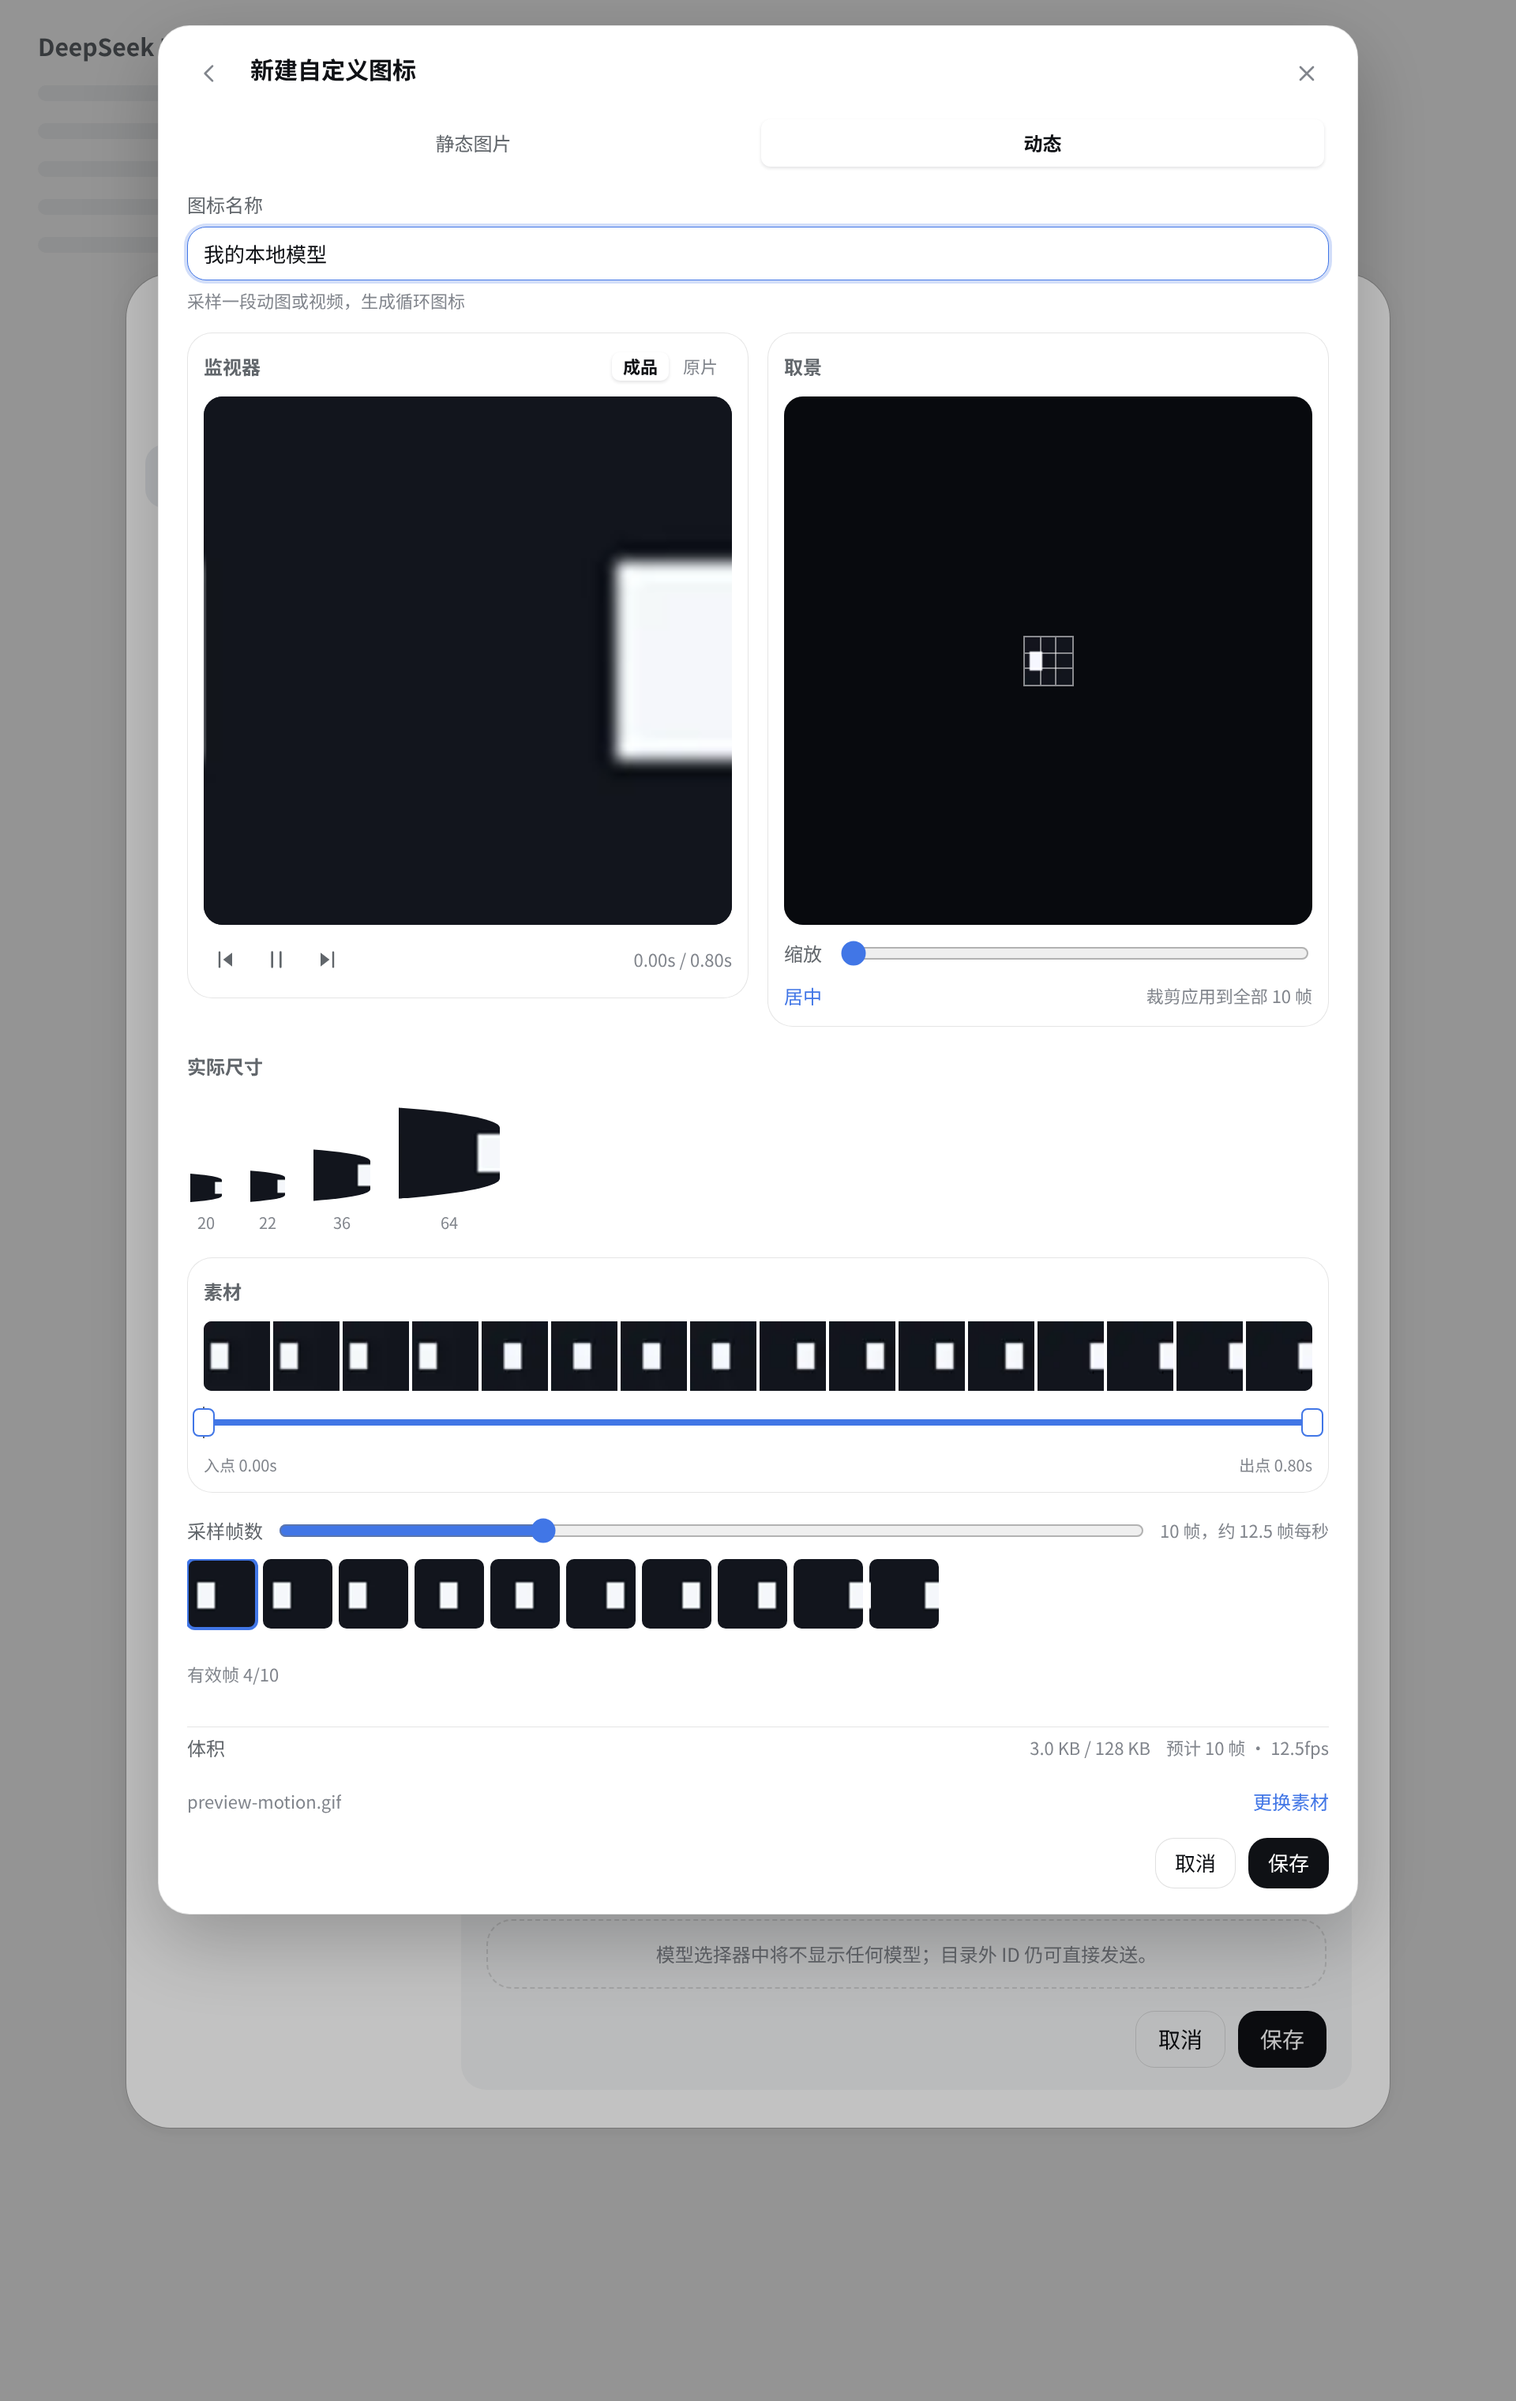
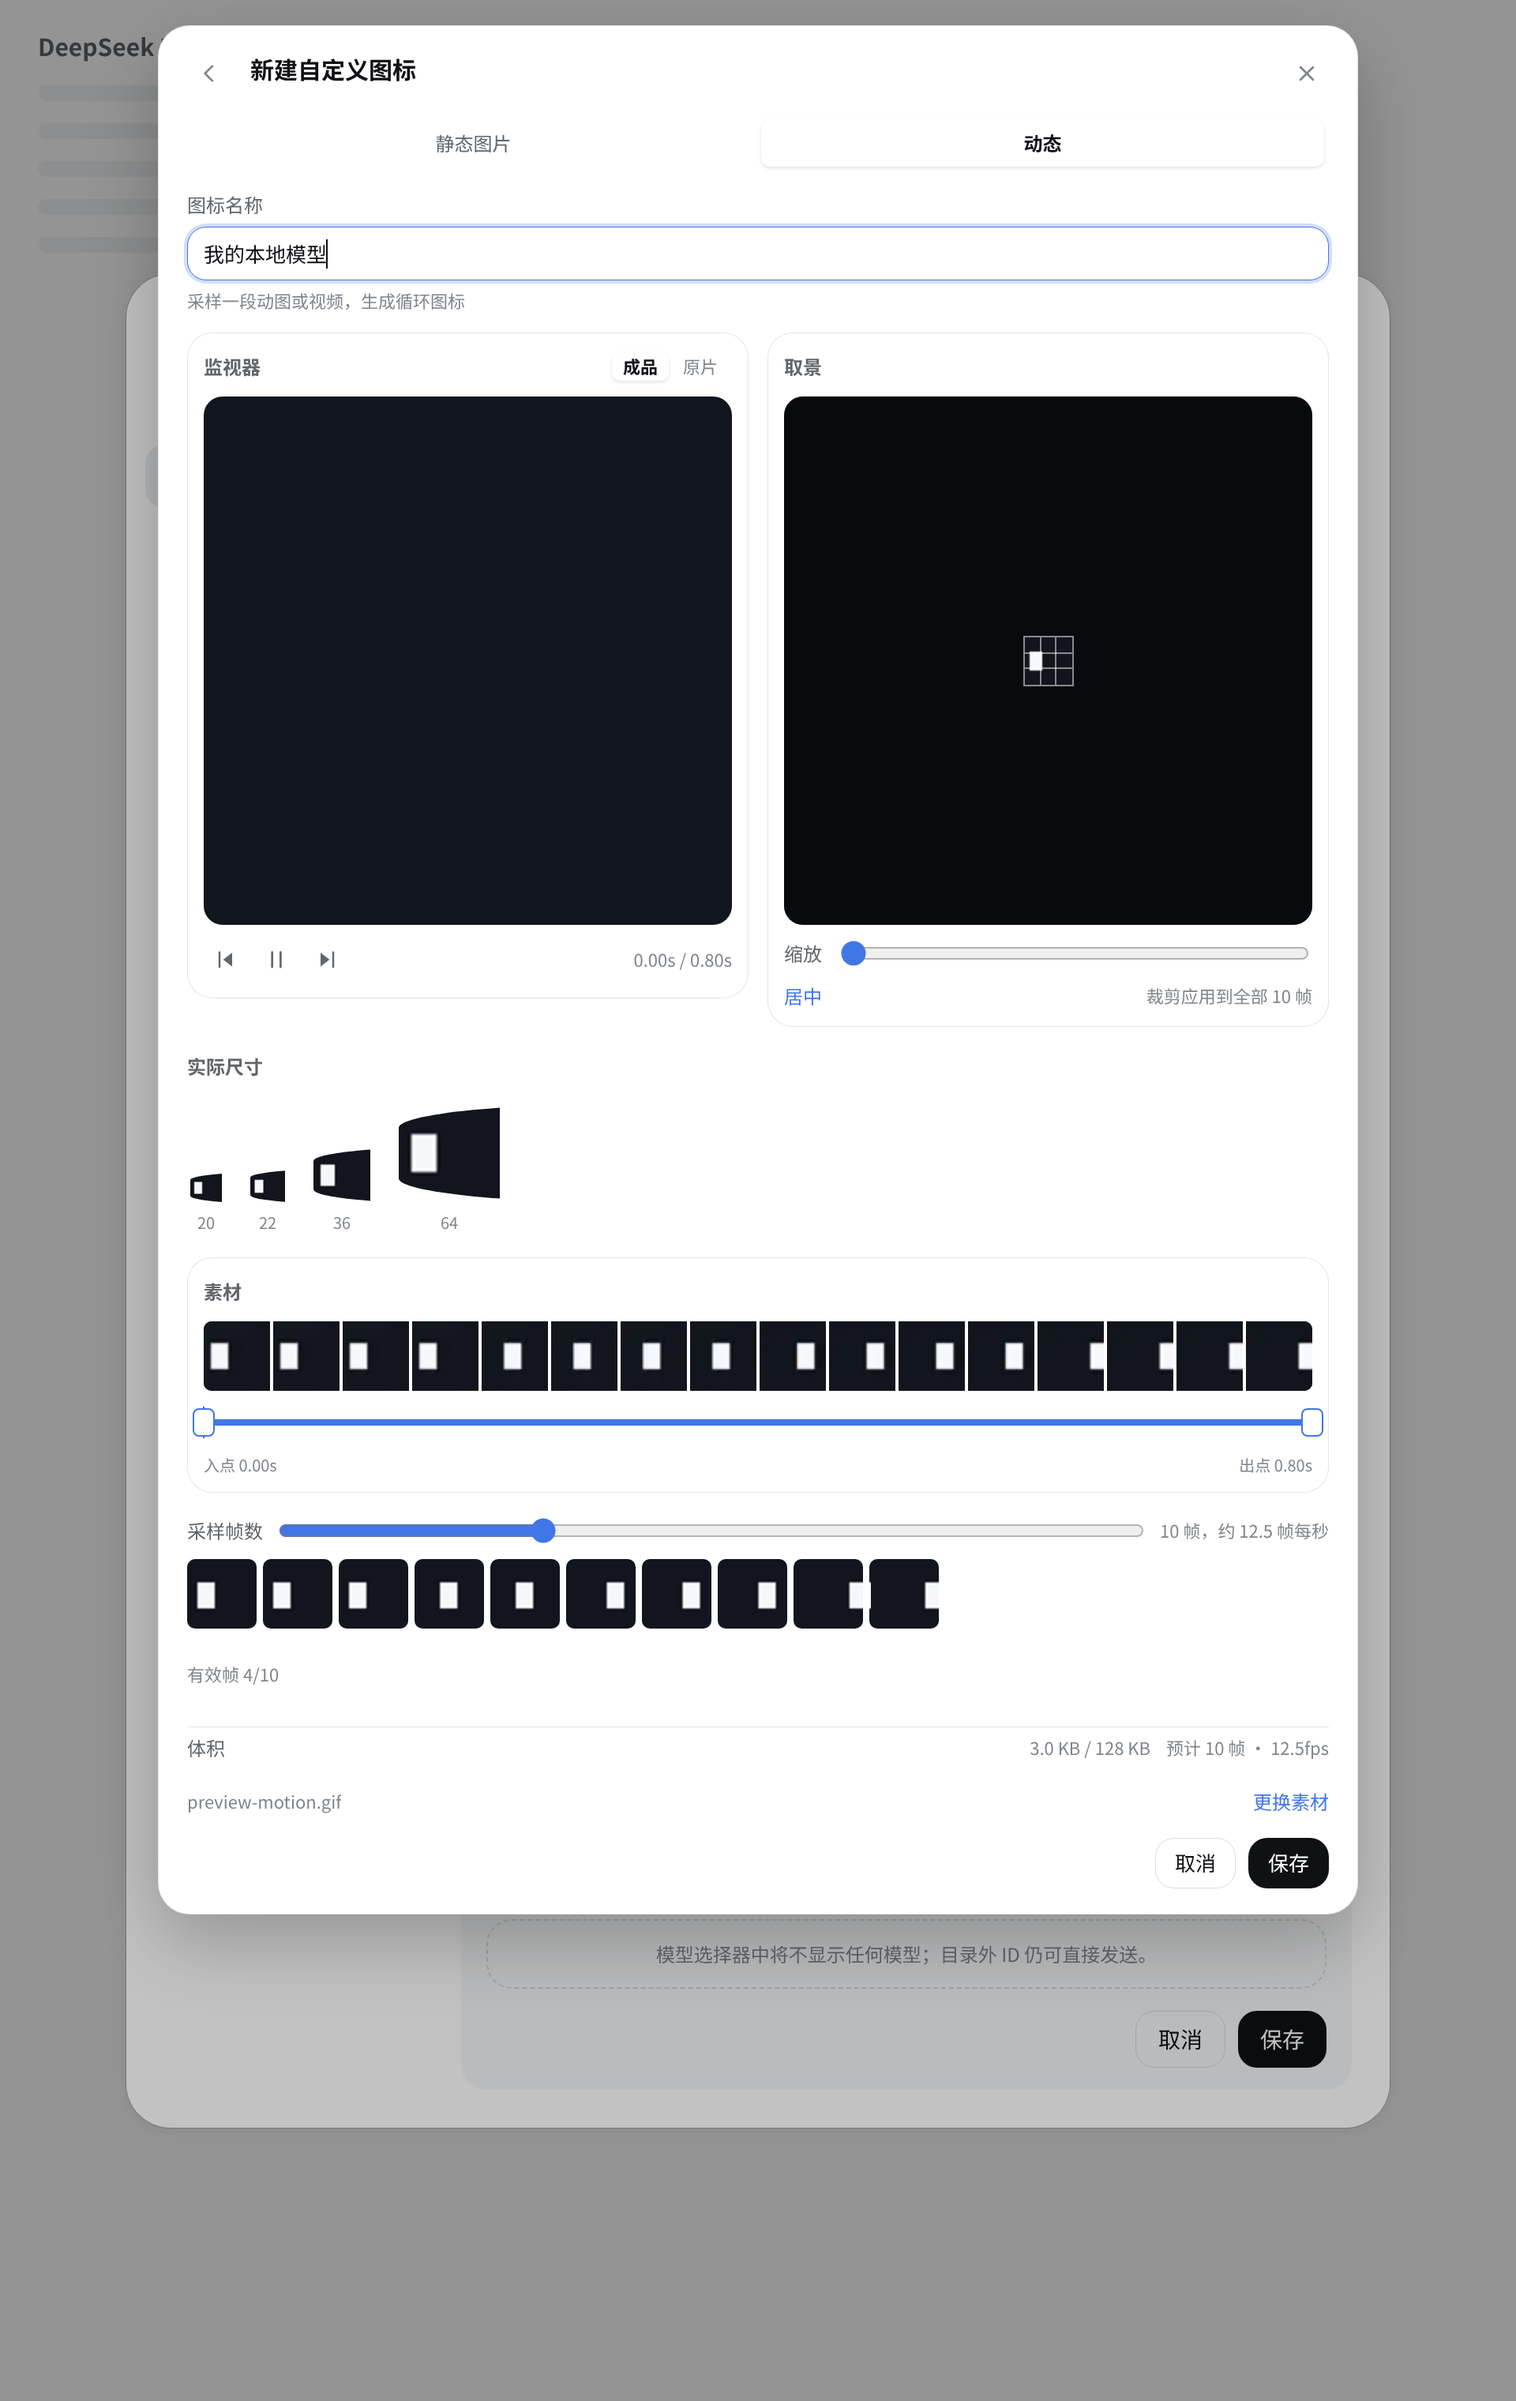
feat: complete the motion studio interactions
Fill the interaction details the plan defines but the first studio cut left out:
the selected range can now be dragged as a whole (the in/out pair translates
inside the source, clamped to its bounds), double-clicking a handle resets it to
the start/end, a running sample or slimming pass can be cancelled, and a refused
create now surfaces the store's specific message (document budget, icon limit)
instead of a generic save error. The motion preview is regenerated from the
updated stylesheet.

Verified: pnpm run verify — typecheck, lint, fmt:check, 152 tests, artwork and
build gates pass; `EDGE=$(command -v google-chrome) pnpm run verify:dom` passes
**140 assertions**; `pnpm run preview` and `pnpm run verify:live` pass.

Changed region(s): [[0.375, 0.2188, 0.5, 0.3438], [0.125, 0.4688, 0.3438, 0.5]]

diff --git a/src/motion-studio.ts b/src/motion-studio.ts
@@ -85,7 +85,7 @@ export interface DshmlMotionStudioProps {
 type DshmlStudioStatus = 'idle' | 'reading' | 'ready' | 'failed';
 
 /** Which range handle (or the playhead) is being dragged. */
-type DshmlDragTarget = 'in' | 'out' | 'playhead';
+type DshmlDragTarget = 'in' | 'out' | 'playhead' | 'range';
 
 /** Copy lookup with an English fallback, so a missing key never shows a raw key. */
 function dshmlCopy(key: string, fallback: string, vars?: Readonly<Record<string, string | number>>): string {
@@ -576,6 +576,7 @@ interface DshmlTimelineProps {
   trackRef: { current: HTMLDivElement | null };
   onDragStart: (target: DshmlDragTarget, event: ReactPointerEvent<HTMLElement>) => void;
   onHandleKey: (side: 'in' | 'out', key: string, shift: boolean) => void;
+  onHandleReset: (side: 'in' | 'out') => void;
   onTrackPointerDown: (event: ReactPointerEvent<HTMLElement>) => void;
 }
 
@@ -589,6 +590,7 @@ function DshmlRangeHandle(props: {
   edge: boolean;
   onDragStart: (target: DshmlDragTarget, event: ReactPointerEvent<HTMLElement>) => void;
   onKey: (side: 'in' | 'out', event: ReactKeyboardEvent<HTMLButtonElement>) => void;
+  onReset: (side: 'in' | 'out') => void;
 }): ReactElement {
   return h(
     'button',
@@ -609,6 +611,10 @@ function DshmlRangeHandle(props: {
       },
       onKeyDown: function onKeyDown(event: ReactKeyboardEvent<HTMLButtonElement>) {
         props.onKey(props.side, event);
+      },
+      onDoubleClick: function onDoubleClick(event: React.MouseEvent<HTMLButtonElement>) {
+        event.preventDefault();
+        props.onReset(props.side);
       },
     },
     props.edge ? h('span', { className: 'dshml-motion-handle-mark', 'aria-hidden': 'true' }) : null,
@@ -649,6 +655,11 @@ function DshmlMotionTimeline(props: DshmlTimelineProps): ReactElement {
           className: 'dshml-motion-range',
           'aria-hidden': 'true',
           style: { left: inPct + '%', width: Math.max(0, outPct - inPct) + '%' },
+          onPointerDown: function onRangePointerDown(event: ReactPointerEvent<HTMLSpanElement>) {
+            event.preventDefault();
+            event.stopPropagation();
+            props.onDragStart('range', event);
+          },
         }),
         h('span', {
           key: 'head',
@@ -671,6 +682,7 @@ function DshmlMotionTimeline(props: DshmlTimelineProps): ReactElement {
               event.preventDefault();
             }
           },
+          onReset: props.onHandleReset,
         }),
         h(DshmlRangeHandle, {
           key: 'out',
@@ -687,6 +699,7 @@ function DshmlMotionTimeline(props: DshmlTimelineProps): ReactElement {
               event.preventDefault();
             }
           },
+          onReset: props.onHandleReset,
         }),
       ],
     ),
@@ -714,6 +727,7 @@ interface DshmlSamplesProps {
   disabled: boolean;
   onFrames: (frames: number) => void;
   onSeek: (ms: number) => void;
+  onCancel: () => void;
 }
 
 /** Frame-count slider, the sampled strip and the effective rate. */
@@ -779,19 +793,31 @@ function DshmlMotionSamples(props: DshmlSamplesProps): ReactElement {
     ]),
     h('div', { key: 'strip', className: 'dshml-motion-strip', role: 'group' }, cells),
     props.sampling
-      ? h(
-          'p',
-          { key: 'progress', className: 'dshml-motion-progress', role: 'status' },
-          props.progress !== null
-            ? dshmlCopy('picker.motionSampling', 'Sampling frame {done}/{total}…', {
-                done: props.progress.done,
-                total: props.progress.total,
-              })
-            : dshmlCopy('picker.motionSampling', 'Sampling frame {done}/{total}…', {
-                done: 0,
-                total: props.frames,
-              }),
-        )
+      ? h('div', { key: 'progress', className: 'dshml-motion-progress-row', role: 'status' }, [
+          h(
+            'span',
+            { key: 'text', className: 'dshml-motion-progress' },
+            props.progress !== null
+              ? dshmlCopy('picker.motionSampling', 'Sampling frame {done}/{total}…', {
+                  done: props.progress.done,
+                  total: props.progress.total,
+                })
+              : dshmlCopy('picker.motionSampling', 'Sampling frame {done}/{total}…', {
+                  done: 0,
+                  total: props.frames,
+                }),
+          ),
+          h(
+            'button',
+            {
+              key: 'cancel',
+              type: 'button',
+              className: 'dshml-custom-link',
+              onClick: props.onCancel,
+            },
+            dshmlCopy('picker.cancel', 'Cancel'),
+          ),
+        ])
       : null,
     props.distinct !== null && props.encoded !== null && props.distinct < props.encoded.frames
       ? h(
@@ -815,6 +841,7 @@ interface DshmlBudgetProps {
   overBudget: boolean;
   onSlim: () => void;
   onUndo: () => void;
+  onCancel: () => void;
   disabled: boolean;
 }
 
@@ -896,6 +923,18 @@ function DshmlMotionBudget(props: DshmlBudgetProps): ReactElement {
             props.slimming
               ? dshmlCopy('picker.motionSlimming', 'Shrinking…')
               : dshmlCopy('picker.motionSlim', 'Shrink automatically'),
+          )
+        : null,
+      props.slimming
+        ? h(
+            'button',
+            {
+              key: 'cancel-slim',
+              type: 'button',
+              className: 'dshml-custom-link',
+              onClick: props.onCancel,
+            },
+            dshmlCopy('picker.cancel', 'Cancel'),
           )
         : null,
     ]),
@@ -1022,6 +1061,7 @@ export function DshmlMotionStudio(props: DshmlMotionStudioProps): ReactElement {
   const playheadRef = React.useRef(0);
   const acceptRef = React.useRef<(file: File | null) => void>(function noop() {});
   const onReadyRef = React.useRef(props.onReady);
+  const dragStartRef = React.useRef<{ time: number; range: DshmlMotionRange } | null>(null);
   const cropAreaRef = React.useRef<DshmlCropPixels | null>(null);
   const liveTimer = React.useRef<ReturnType<typeof setTimeout> | null>(null);
   playheadRef.current = playhead;
@@ -1410,6 +1450,16 @@ export function DshmlMotionStudio(props: DshmlMotionStudioProps): ReactElement {
           setPlayhead(target);
           return;
         }
+        if (drag === 'range') {
+          const start = dragStartRef.current;
+          if (start === null) return;
+          const span = Math.max(DSHML_MOTION_MIN_RANGE_MS, start.range.outMs - start.range.inMs);
+          const delta = target - start.time;
+          const nextIn = Math.min(Math.max(0, start.range.inMs + delta), Math.max(0, duration - span));
+          updateRange({ inMs: Math.round(nextIn), outMs: Math.round(nextIn + span) });
+          setPlayhead(Math.round(nextIn));
+          return;
+        }
         const next = dshmlMoveHandle(range, drag, target, duration);
         if (next.inMs !== range.inMs || next.outMs !== range.outMs) {
           if (next.outMs - next.inMs >= DSHML_MOTION_MAX_RANGE_MS) {
@@ -1552,8 +1602,24 @@ export function DshmlMotionStudio(props: DshmlMotionStudioProps): ReactElement {
 
   function startDrag(target: DshmlDragTarget, event: ReactPointerEvent<HTMLElement>): void {
     if (source === null) return;
+    dragStartRef.current = { time: timeAtPointer(event), range };
     setDrag(target);
     if (target === 'playhead') setPlayhead(timeAtPointer(event));
+  }
+
+  /** Double-click a handle: the in point goes to the start, the out point to the end. */
+  function resetHandle(side: 'in' | 'out'): void {
+    if (source === null) return;
+    const duration = Math.max(DSHML_MOTION_MIN_RANGE_MS, source.durationMs);
+    updateRange(dshmlMoveHandle(range, side, side === 'in' ? 0 : duration, duration));
+  }
+
+  /** Abort the current sample / slimming run; the worker stops at its next frame. */
+  function cancelWork(): void {
+    encodeGeneration.current += 1;
+    setSampling(false);
+    setSlimming(false);
+    setProgress(null);
   }
 
   async function slim(): Promise<void> {
@@ -1750,6 +1816,7 @@ export function DshmlMotionStudio(props: DshmlMotionStudioProps): ReactElement {
       trackRef,
       onDragStart: startDrag,
       onHandleKey: handleKey,
+      onHandleReset: resetHandle,
       onTrackPointerDown,
     }),
     h(DshmlMotionSamples, {
@@ -1766,6 +1833,7 @@ export function DshmlMotionStudio(props: DshmlMotionStudioProps): ReactElement {
         setPlaying(false);
         setPlayhead(ms);
       },
+      onCancel: cancelWork,
       disabled: props.disabled === true,
     }),
     h(DshmlMotionBudget, {
@@ -1779,6 +1847,7 @@ export function DshmlMotionStudio(props: DshmlMotionStudioProps): ReactElement {
         void slim();
       },
       onUndo: undo,
+      onCancel: cancelWork,
       disabled: props.disabled === true,
     }),
     errorLine,

diff --git a/src/custom-icon-editor.ts b/src/custom-icon-editor.ts
@@ -39,7 +39,13 @@ import {
 import type { DshmlCustomNameProblem } from './custom-icons';
 import { DshmlMotionStudio } from './motion-studio';
 import type { DshmlMotionReadyState } from './motion-studio';
-import { dshmlCreateCustomIcon, dshmlDeleteCustomIcon, dshmlRenameCustomIcon, dshmlUseIconState } from './overrides';
+import {
+  dshmlCreateCustomIcon,
+  dshmlDeleteCustomIcon,
+  dshmlIconState,
+  dshmlRenameCustomIcon,
+  dshmlUseIconState,
+} from './overrides';
 
 /** Copy lookup with an English fallback, so a missing key never shows a raw key. */
 function dshmlEditorCopy(key: string, fallback: string, vars?: Readonly<Record<string, string | number>>): string {
@@ -409,6 +415,17 @@ export function DshmlCustomIconEditor(props: DshmlCustomIconEditorProps): ReactE
     }
   }
 
+  /** The store's localized refusal, or the generic save-failure copy. */
+  function storeRefusal(): string {
+    try {
+      const message = dshmlIconState().error;
+      if (typeof message === 'string' && message.trim() !== '') return message;
+    } catch {
+      /* fall through */
+    }
+    return dshmlEditorCopy('picker.saveFailed', 'Could not save — try again');
+  }
+
   async function save(): Promise<void> {
     if (saving) return;
     const validName = validateName();
@@ -432,7 +449,10 @@ export function DshmlCustomIconEditor(props: DshmlCustomIconEditorProps): ReactE
           const id = await dshmlCreateCustomIcon(validName, motionPayload.poster, props.apply, motionPayload.motion);
           setBusy(false);
           if (id === null) {
-            setError(dshmlEditorCopy('picker.saveFailed', 'Could not save — try again'));
+            // `dshmlCreateCustomIcon` publishes the specific refusal (document
+            // budget, icon limit) on the store; show that instead of a generic
+            // failure so the user knows what to delete.
+            setError(storeRefusal());
             return;
           }
           props.onDone('created');
@@ -453,7 +473,7 @@ export function DshmlCustomIconEditor(props: DshmlCustomIconEditorProps): ReactE
         const id = await dshmlCreateCustomIcon(validName, image, props.apply);
         setBusy(false);
         if (id === null) {
-          setError(dshmlEditorCopy('picker.saveFailed', 'Could not save — try again'));
+          setError(storeRefusal());
           return;
         }
         props.onDone('created');

diff --git a/src/ui-css.ts b/src/ui-css.ts
@@ -1520,6 +1520,11 @@ export const DSHML_UI_CSS: string = `
   height: 4px;
   border-radius: 2px;
   background: var(--dsw-alias-state-business-primary, #5686fe);
+  cursor: grab;
+}
+
+.dshml-motion-range:active {
+  cursor: grabbing;
 }
 
 .dshml-motion-playhead {
@@ -1639,6 +1644,12 @@ export const DSHML_UI_CSS: string = `
 .dshml-motion-sample:focus-visible {
   outline: 2px solid var(--dsw-alias-state-business-primary, #5686fe);
   outline-offset: 1px;
+}
+
+.dshml-motion-progress-row {
+  display: flex;
+  align-items: center;
+  gap: 10px;
 }
 
 .dshml-motion-progress {
